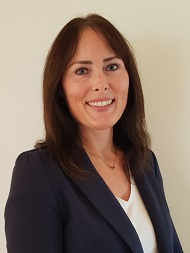
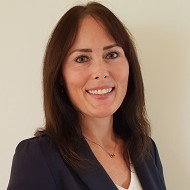
changes

diff --git a/style/style.css b/style/style.css
@@ -1,1 +1,1 @@
-.clearfix::after{content:"";clear:both;display:table}body{margin:30px;padding:40px;background-size:cover;background-position:center;height:100vh;font-family:Arial,sans-serif;font-size:1rem;background-color:#fff}header{height:15vw;padding-right:230px;padding-left:40px;padding-top:30px;position:relative;text-align:right;background-color:#000;color:#fff}aside{display:block;border-top:2px;border-color:#000;max-width:25vw;margin-top:-180px;margin-left:30px;background-color:#d1d0d0;font-weight:500;font-size:1rem;text-align:left;padding:10px;z-index:1;position:relative}.full-page{min-height:100vh}.profilbild{border-radius:50%;width:150px;padding:10px;margin-bottom:24px}address{margin-bottom:24px}ul{margin-bottom:24px}h1{margin-top:20px;margin-left:40px;font-family:"Segoe UI",Tahoma,Geneva,Verdana,sans-serif;font-weight:bold;font-size:3rem}h2{margin-top:24px;margin-bottom:0;font-family:"Times New Roman",Times,serif;font-weight:bold;text-transform:uppercase;font-size:1,5rem;border-bottom:2px solid #000}p{margin-bottom:24px}article{width:50%;margin-top:40px}main{border-width:1px;border-style:double;border-color:#000}@media screen and (min-width: 640px){body{background-color:light blue}}@media screen and (min-width: 1024px){body{background-color:light #ff0}.content_wrap{display:flex;gap:20px}aside{width:25%}header{padding-left:calc(25% + 20px + 20px);text-align:left}}
+.clearfix::after{content:"";clear:both;display:table}body{margin:30px;padding:40px;background-size:cover;background-position:center;height:100vh;font-family:Arial,sans-serif;font-size:1rem;background-color:#fff}header{height:15vw;padding-right:230px;padding-left:40px;padding-top:30px;position:relative;text-align:right;background-color:#000;color:#fff}aside{display:block;border-top:2px;border-color:#000;max-width:25vw;margin-top:-180px;margin-left:30px;background-color:#f5f3f8;font-weight:500;font-size:1rem;text-align:left;padding:10px;z-index:1;position:relative}.full-page{min-height:100vh}.profilbild{border-radius:50%;margin-left:15px;margin-right:40px;margin-top:0;margin-bottom:40px;position:absolute}.circle{border:3px solid #000;border-radius:50%;background-color:rgba(0,0,0,0);height:220px;width:220px;margin-left:65px;margin-top:40px;position:relative}address{margin-bottom:24px}ul{margin-bottom:24px}h1{margin-top:20px;margin-left:40px;font-family:"Segoe UI",Tahoma,Geneva,Verdana,sans-serif;font-weight:bold;font-size:3rem}h2{margin-top:24px;margin-bottom:0;font-family:"Times New Roman",Times,serif;font-weight:bold;text-transform:uppercase;font-size:1,5rem;border-bottom:2px solid #000}p{margin-bottom:24px}article{width:50%;margin-top:40px}main{border-width:1px;border-style:double;border-color:#000}@media screen and (min-width: 640px){body{background-color:light blue}}@media screen and (min-width: 1024px){body{background-color:light #ff0}.content_wrap{display:flex;gap:20px}aside{width:25%}header{padding-left:calc(25% + 20px + 20px);text-align:left}}

diff --git a/index.html b/index.html
@@ -22,7 +22,9 @@
     <div class="content_wrap">
         <aside>
             <div class="full_page">
-                <p><img src="img/camillaridesjo.jpg" alt="Profilbild" class="profilbild"></p>
+                <div class="circle">
+                    <p><img src="img/camillaridesjo.jpg" alt="Profilbild" class="profilbild"></p>
+                </div>
                 <h2>Kontaktuppgifter</h2><br>
                 <address>Vallby Skolgata 14<br>
                     724 81 Västerås<br>
@@ -33,7 +35,8 @@
                     <p><a href="https://www.linkedin.com/in/camillaridesjo"
                         target="_blank">https://www.linkedin.com/in/camillaridesjo</a><br>
                     <a href="https://www.github.com/c-ridesjo" 
-                        target="_blank">https://www.github.com/c-ridesjo</a></p><br>
+                        target="_blank">https://www.github.com/c-ridesjo</a>
+                    </p><br>
               
 
                 <h2>Om mig</h2>
@@ -58,12 +61,13 @@
                     <li>UX/Usability</li><br>
                 </ul>
             
-            <h2> Övrigt</h2>
-            <p>På fritiden går det mesta av tiden till villa, trädgård och familj. Jag har sambo och tre barn (6, 17 och 20
-                år gamla). Jag tycker om att läsa spännande böcker, odla i min trädgård, promenera med hunden och umgås med
-                släkt och vänner.<br><br>
-                Språkkunskaper: Svenska och engelska.
-                Körkort B.</p>
+                <h2> Övrigt</h2>
+                <p>På fritiden går det mesta av tiden till villa, trädgård och familj. Jag har sambo och tre barn (6, 17 och 20
+                    år gamla). Jag tycker om att läsa spännande böcker, odla i min trädgård, promenera med hunden och umgås med
+                    släkt och vänner.<br><br>
+                    Språkkunskaper: Svenska och engelska.
+                    Körkort B.
+                </p>
             </div>
         </aside>
 

diff --git a/style/layout/_mobile.scss b/style/layout/_mobile.scss
@@ -28,7 +28,7 @@ aside {
     max-width: 25vw;
     margin-top: -180px;
     margin-left: 30px;
-    background-color: rgb(209, 208, 208);
+    background-color: rgb(245, 243, 248);
     font-weight: 500;
     font-size: 1rem;
     text-align: left;
@@ -43,10 +43,23 @@ aside {
 }
 
 .profilbild {
+    border-radius: 50%;  
+    margin-left: 15px;
+    margin-right: 40px;
+    margin-top: 0;
+    margin-bottom: 40px;
+    position: absolute;
+}
+
+.circle {
+    border: 3px solid black;
     border-radius: 50%;
-    width: 150px;
-    padding: 10px;
-    margin-bottom: 24px;
+    background-color: transparent;
+    height: 220px;
+    width: 220px;
+    margin-left: 65px;
+    margin-top: 40px;
+    position: relative;
 }
 
 address{
